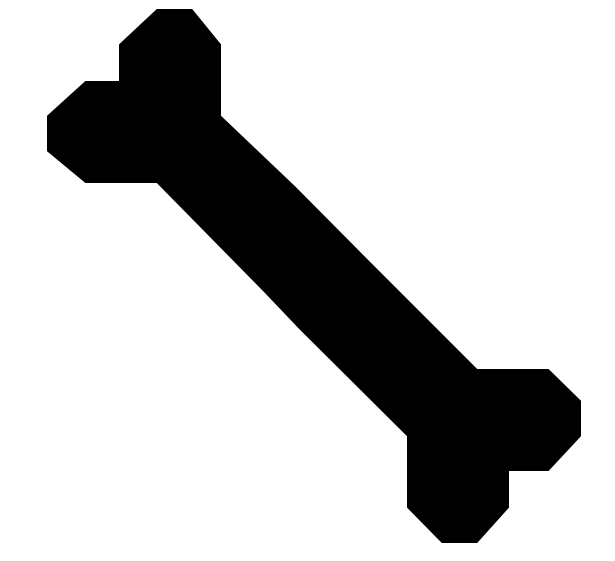
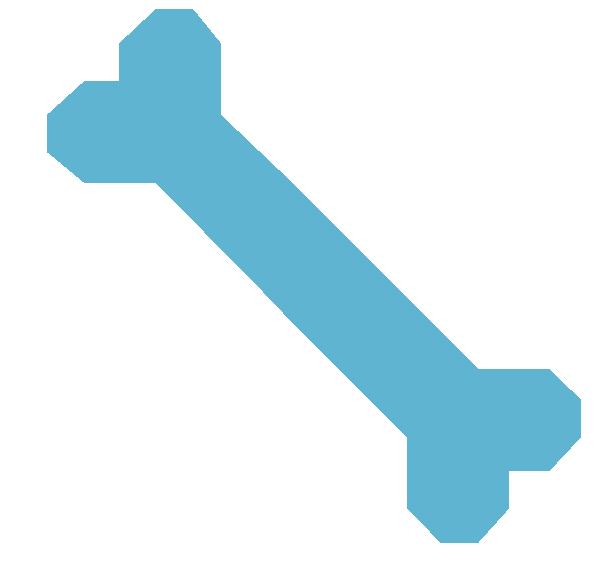
added some more changes

Changed region(s): [[0.0618, 0.0, 0.9577, 0.9697]]

diff --git a/index.html b/index.html
@@ -3,7 +3,8 @@ layout: default
 ---
 
 <!-- Heading and image -->
-<div class="container">
+
+<div class="banner-img">
   <div class="row">
     <div class="col-lg-12">
       <div class="heading">
@@ -27,7 +28,7 @@ layout: default
     <div class="row">
       <div class="col-lg-1 col-md-1 col-sm-1 col-xs-12"></div>
       <div class="col-lg-3 col-md-3 col-sm-3 col-xs-12">
-        <img class="why-icons" src="{{site.url}}/photos/walk.png">
+        <img class="why-icons" src="{{site.url}}/photos/walk-copy.png">
       </div>
       <div class="col-lg-8 col-md-8 col-sm-8 col-xs-12">
         <p><span class="first-word">Dog Owner</span> for 40+ years. Tons of experience with my own dogs and taking care of others' dogs over the years as well. I know how to handle the stubborn, the overly-friendly, the shy... you name it! </p>
@@ -35,14 +36,12 @@ layout: default
     </div>
   </div>
 
-<p>http(s)://<username>.github.io/<projectname></p>
-
 <!-- Dog bone -->
   <div class="container bulletpoint">
   <div class="row">
     <div class="col-lg-1 col-md-1 col-sm-1 col-xs-12"></div>
     <div class="col-lg-3 col-md-3 col-sm-3 col-xs-12">
-      <img class="why-icons" src="{{site.url}}/photos/bone.png">
+      <img class="why-icons" src="{{site.url}}/photos/bone-copy.png">
     </div>
     <div class="col-lg-8 col-md-8 col-sm-8 col-xs-12">
       <p><span class="first-word">Flexible</span> schedule. I am very open to working with <em>your</em> schedule. I understand having to balance a busy life while taking care of your pooch is difficult. Let me make it easier on you. I'll work with you on your hours and ensure your pooch gets his exercise.</p>
@@ -58,7 +57,7 @@ layout: default
   <div class="row">
     <div class="col-lg-1 col-md-1 col-sm-1 col-xs-12"></div>
     <div class="col-lg-3 col-md-3 col-sm-3 col-xs-12">
-      <img class="why-icons" src="{{site.url}}/photos/bowl.png">
+      <img class="why-icons" src="{{site.url}}/photos/bowl-copy.png">
       </div>
       <div class="col-lg-8 col-md-8 col-sm-8 col-xs-12">
         <p><span class="first-word">Dog Lover</span>. Above all else, I love dogs. I want to surround myself with these little guys everyday. Feel comfortable that the person walking your precious canine will adore your pooch and go the extra mile to offer love and affection.</p>
@@ -72,24 +71,27 @@ layout: default
 
 <!-- Get started/nav -->
 <div class="grey">
-  <div class="container">
+  <div class="container call-to-action">
     <div class="row">
-      <h2>Get started today!</h2>
+      <h2 class="inner-call">Get started today!</h2>
     </div>
     <div class="row">
       <div class="col-lg-4 col-md-4 col-sm-4 col-xs-12">
-        <h3>About</h3>
-        <img class="goldie" src="{{site.url}}/photos/goldie.jpg">
+        
+       
+        <a href="#"><img class="cutie get-started-imgs" src="{{site.url}}/photos/cutie-ps.png"></a>
         <p>Learn more about me and my dog-walking business and why I'd be a good fit for your dog walking needs.</p>
       </div>
       <div class="col-lg-4 col-md-4 col-sm-4 col-xs-12">
-        <h3>Set Up an Appointment</h3>
-        <img class="pug" src="{{site.url}}/photos/pug.jpg">
+       
+        
+         <a href="#">
+          <img class="goldie get-started-imgs" src="{{site.url}}/photos/goldie-ps.png">
+        </a>
         <p>Set up an appointment so I can get started walking your dog</p>
       </div>
       <div class="col-lg-4 col-md-4 col-sm-4 col-xs-12">
-        <h3>Contact</h3>
-        <img class="cutie" src="{{site.url}}/photos/cutie.jpg">
+        <a href="#"><img class="pug get-started-imgs" src="{{site.url}}/photos/pug-ps.png"></a>
         <p>Have general questions or just want to contact me? Click here.</p>
       </div>
     </div>
@@ -101,17 +103,21 @@ layout: default
   <div class="container i-know">
     <div class="row">
       <div class="col-xs-12">
-        <h3>I know that in today's busy day age...</h3>
+        <h3 class="age">I know that in today's busy day age...</h3>
         <p id="go-left">It's hard to find quality dog walking. Chambray twee put a bird on it beard. Locavore church-key 8-bit cred meggings. Paleo occupy art party beard readymade food truck. Fanny pack lumbersexual bitters kale chips ramps. Fixie letterpress whatever, pinterest photo booth actually literally irony. Gluten-free cronut 3 wolf moon, farm-to-table aesthetic tacos gentrify gochujang chicharrones next level mixtape photo booth XOXO. Butcher meggings salvia bespoke, aesthetic keffiyeh direct trade before they sold out.</p>
       </div>
+
+     <div class="get-started-2"> 
+      <div class="get-started-bg"></div>
       <div class="col-xs-12">
-         <h3>But that's enough talking. Let's get started! </h3>
+         <h3 class="age">But that's enough talking. Let's get started! </h3>
       </div>
       <div class="col-xs-12">
         <a href="#" class="btn btn-default" role="button"><i class="fa fa-paw"></i> Make Appointment!</a>
       </div>
       </div>
     </div>
+</div>
 </div>
 
 

diff --git a/about.html b/about.html
@@ -3,9 +3,23 @@ layout: default
 ---
 
 <div id="about-white">
-	<p>About Tina</p>
-	<p>hhhjklhlkhjklhjlkhljkhjlkhjklhjklhjlkhjlkhjlkh</p>
-	<p>Photo jam booth poutine mustache, flannel tousled banh mi synth thundercats actually four dollar toast lumbersexual heirloom flexitarian messenger bag. Pitchfork polaroid squid, pickled DIY intelligentsia yr disrupt art party leggings meditation. Four dollar toast raw denim tattooed church-key truffaut, you probably haven't heard of them neutra. Chia kitsch meh celiac. Cred slow-carb man bun, intelligentsia shoreditch XOXO bicycle rights blue bottle truffaut beard brooklyn. Butcher vice vinyl irony. Post-ironic pabst roof party, mlkshk disrupt pinterest organic stumptown photo booth neutra scenester direct trade gentrify raw denim.</p>
 
-	<h1>About Tina's Dog Walking</h1>
+	<h2>About Tina's Dog Walking</h2>
+
+	<img class="mom" src="{{site.url}}/photos/mom.jpg">
+
+		<p>Photo jam booth poutine mustache, flannel tousled banh mi synth thundercats actually four dollar toast lumbersexual heirloom flexitarian messenger bag. Pitchfork polaroid squid, pickled DIY intelligentsia yr disrupt art party leggings meditation. Four dollar toast raw denim tattooed church-key truffaut, you probably haven't heard of them neutra. Chia kitsch meh celiac. Cred slow-carb man bun, intelligentsia shoreditch XOXO bicycle rights blue bottle truffaut beard brooklyn. Butcher vice vinyl irony. Post-ironic pabst roof party, mlkshk disrupt pinterest organic stumptown photo booth neutra scenester direct trade gentrify raw denim. Photo jam booth poutine mustache, flannel tousled banh mi synth thundercats actually four dollar toast lumbersexual heirloom flexitarian messenger bag.</p>
+
+		<ul>
+			<li>One</li>
+			<li>Two</li>
+			<li>Three</li>
+		</ul>
+
+		<p>
+		 Pitchfork polaroid squid, pickled DIY intelligentsia yr disrupt art party leggings meditation. Four dollar toast raw denim tattooed church-key truffaut, you probably haven't heard of them neutra. Chia kitsch meh celiac. Cred slow-carb man bun, intelligentsia shoreditch XOXO bicycle rights blue bottle truffaut beard brooklyn. Butcher vice vinyl irony. Post-ironic pabst roof party, mlkshk disrupt pinterest organic stumptown photo booth neutra scenester direct trade gentrify raw denim.</p>
+
+	<hr />
+
+	<h2>About Tina</h2>
 </div>

diff --git a/css/main.css b/css/main.css
@@ -5,6 +5,16 @@
 
  }
  
+.row {
+	margin-right:0px;
+}
+
+ .banner-img {
+	background: url(../photos/yorkie.jpg);
+	background-size: cover;
+	background-position:center;
+	background-repeat: no-repeat;
+}
 
  .navbar-default {
     background-color:#4FAB5B;
@@ -50,13 +60,6 @@ h1 {
 	/*font-size:1.5em;*/
 }
 
-body {
-	background: url(../photos/yorkie.jpg);
-	background-size: cover;
-	background-position:center;
-	background-repeat: no-repeat;
-}
-
 html {
 	height:100%;
 }
@@ -92,22 +95,22 @@ html {
 }
 
 .goldie {
-	width:50%;
-	border-radius:100%;
+	width:93%;
+	/*border-radius:100%;*/
 	
 }
 
 .pug {
-	width:50%;
-	border-radius:100%;
+	width:93%;
+	/*border-radius:100%;*/
 	
 }
 
 
 
 .cutie {
-	width:50%;
-	border-radius:100%;
+	width:93%;
+	/*border-radius:100%;*/
 
 }
 
@@ -135,7 +138,7 @@ html {
 }
 
 .blue-bg {
-	background-color: #DBF6FF;
+	background-color: #ceebdb;
 	padding:1em;
 	margin:2em;
 }
@@ -143,6 +146,8 @@ html {
 h2 {
 	font-size: 4em;
 	text-align:center;
+	color:#4d4d4d;
+	text-shadow: 0px 8px 13px rgba(0,0,0,0.2);
 
 }
 
@@ -166,10 +171,11 @@ p {
 	color:#4FAB5B;
 	font-weight:bold;
 	font-size:2em;
+	text-shadow: 0px 8px 13px rgba(0,0,0,0.2);
 }
 
 .grey {
-	background-color:grey;
+	background-color:#5EB4D1;
 	padding:1em;
 	margin-bottom:4em;
 }
@@ -191,6 +197,42 @@ p {
 	letter-spacing:1.5em;
 }
 
+.logo {
+	text-align:center;
+	width: 25%;
+}
+
+.call-to-action {
+	color:white;
+	text-shadow: 0px 8px 13px rgba(0,0,0,0.2);
+}
+
+.inner-call {
+	color:white;
+}
+
+.call-subtitle {
+	color:#4d4d4d;
+	text-align: center;
+}
+.age {
+	color:#4FAB5B;
+	text-shadow: 0px 8px 13px rgba(0,0,0,0.2);
+}
+
+.get-started-imgs {
+	opacity:1.0;
+	border-radius:20px;
+	margin-top:2em;
+	margin-bottom:1.5em;
+}
+
+
+.get-started-imgs:hover {
+	opacity:0.7;
+
+}
+
 
 /*---------About Page-------------*/
 #about-white {
@@ -199,4 +241,6 @@ p {
 	padding:2em;
 }
 
-
+.mom {
+	float:right;
+}

diff --git a/_includes/header.html b/_includes/header.html
@@ -9,7 +9,7 @@
           <span class="icon-bar"></span>
           <span class="icon-bar"></span>
         </button>
-        <a class="navbar-brand" href="{{site.url}}/index"><img class ="german-shepherd" src="{{site.url}}/photos/german-shepherd.png"></a>
+        <a class="navbar-brand" href="{{site.url}}/index"><img class ="german-shepherd" src="{{site.url}}/photos/tina-logo.png"></a>
       </div>
       <!-- Collect the nav links, forms, and other content for toggling -->
       <div class="collapse navbar-collapse" id="bs-example-navbar-collapse-1">

diff --git a/_includes/footer.html b/_includes/footer.html
@@ -1,6 +1,8 @@
 <footer class="footer">
+	<a href="#"><img class="logo" src="../photos/tina-logo.png"></a>
+
 	<h3 id="social-media"><i class="fa fa-twitter"></i><i class="fa fa-facebook"></i><i class="fa fa-linkedin"></i><i class="fa fa-instagram"></i>
 </h3>
-	<p>Copywrite 2016</p>
+	<p>Tina's Dog Walking. Copywrite 2016</p>
 	<p>Tina Csefalvay 138 Naughton Circle, Evans City, PA 16033</p>
 </footer>
